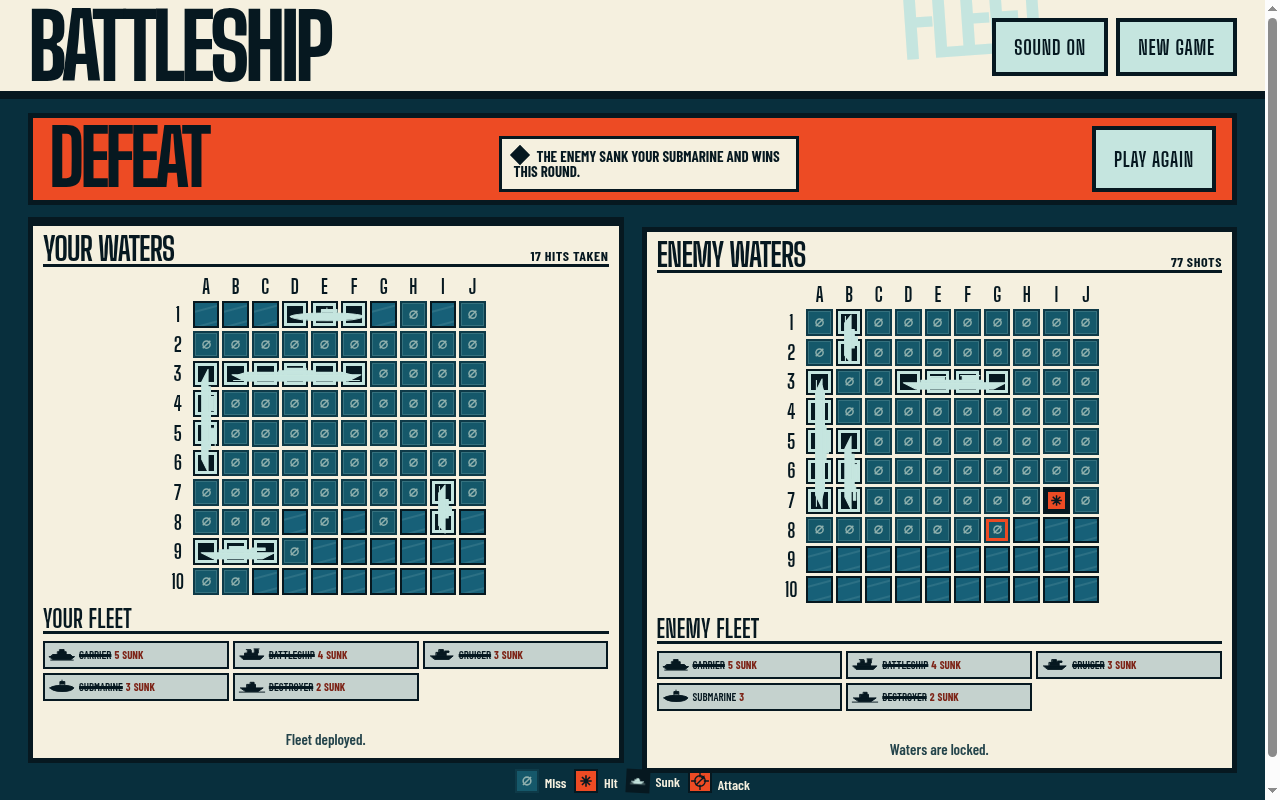
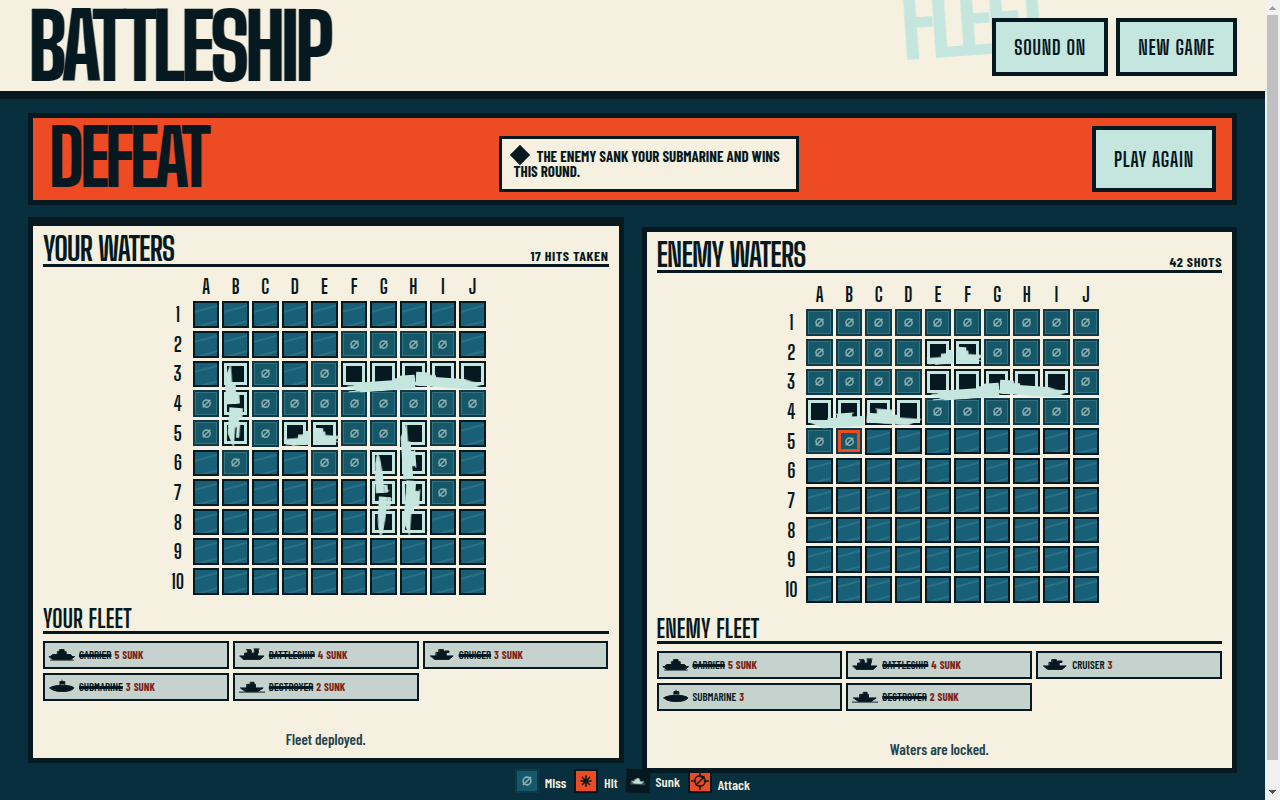
Animate broken wrecks on sinking

diff --git a/src/styles.css b/src/styles.css
@@ -568,11 +568,54 @@ kbd {
   height: 100%;
 }
 
+.cell-vessel-half {
+  position: absolute;
+  inset: 0;
+  display: block;
+  overflow: visible;
+}
+
+.cell-vessel-half .ship-icon {
+  display: block;
+  width: 100%;
+  height: 100%;
+}
+
+.cell-vessel-half-a {
+  clip-path: inset(0 48% 0 0);
+  transform-origin: right center;
+  animation: wreck-half-a 620ms ease-out forwards;
+}
+
+.cell-vessel-half-b {
+  clip-path: inset(0 0 0 48%);
+  transform-origin: left center;
+  animation: wreck-half-b 620ms ease-out forwards;
+}
+
 .cell-vessel-vertical {
   top: 0;
   left: 100%;
   transform: rotate(90deg);
   transform-origin: top left;
+}
+
+@keyframes wreck-half-a {
+  from {
+    transform: translate(0, 0) rotate(0deg);
+  }
+  to {
+    transform: translate(-4px, 2px) rotate(-4deg);
+  }
+}
+
+@keyframes wreck-half-b {
+  from {
+    transform: translate(0, 0) rotate(0deg);
+  }
+  to {
+    transform: translate(4px, -1px) rotate(4deg);
+  }
 }
 
 .cell-interactive:hover {
@@ -780,6 +823,16 @@ kbd {
 }
 
 @media (prefers-reduced-motion: reduce) {
+  .cell-vessel-half-a {
+    animation: none;
+    transform: translate(-4px, 2px) rotate(-4deg);
+  }
+
+  .cell-vessel-half-b {
+    animation: none;
+    transform: translate(4px, -1px) rotate(4deg);
+  }
+
   *,
   *::before,
   *::after {

diff --git a/src/components/Cell.tsx b/src/components/Cell.tsx
@@ -68,7 +68,9 @@ export function Cell({
       )}
       {vessel && (
         <span
-          className={`cell-vessel cell-vessel-${vessel.orientation}`}
+          className={`cell-vessel cell-vessel-${vessel.orientation} ${
+            status === 'sunk' ? 'cell-vessel-wreck' : ''
+          }`}
           style={{
             width: `calc(${vessel.size * 100}% + ${
               (vessel.size - 1) * 3 + vessel.size * 4
@@ -76,7 +78,18 @@ export function Cell({
           }}
           aria-hidden="true"
         >
-          <ShipIcon name={vessel.name} profile />
+          {status === 'sunk' ? (
+            <>
+              <span className="cell-vessel-half cell-vessel-half-a">
+                <ShipIcon name={vessel.name} profile />
+              </span>
+              <span className="cell-vessel-half cell-vessel-half-b">
+                <ShipIcon name={vessel.name} profile />
+              </span>
+            </>
+          ) : (
+            <ShipIcon name={vessel.name} profile />
+          )}
         </span>
       )}
     </button>

diff --git a/DESIGN.md b/DESIGN.md
@@ -31,6 +31,9 @@ active call to action and combat states.
   identity is revealed.
 - Sunk hulls use the full class silhouette without repeating boxed-saltire
   marks; the legend uses a compact vessel silhouette for that reveal grammar.
+- A newly sunk vessel fractures into two authored flat-profile halves over
+  roughly 620ms, then remains split and tilted as a readable wreck. Reduced
+  motion skips directly to the broken resting state.
 - Fired states stay value-separated on petrol water: a quiet flattened-water
   miss, hot orange hit, and dead ink sunk. The legend mirrors the exact
   authored marks, and fleet chips use a compact three-column/two-row rhythm at
